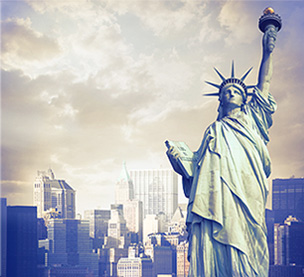
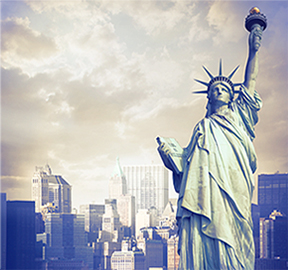
che

diff --git a/module-7/Home/css/styles.css b/module-7/Home/css/styles.css
@@ -148,13 +148,11 @@ body {
 }
 .slider-image {
     width: 902px;
-    height:580px;
     position: absolute;
 }
 
 .slider-image-1 {
 	width: 902px;
-	height:580px;
     position: static;
 }
 
@@ -298,8 +296,7 @@ h2 {
 }
 
 .photo {   
-    width: 288px;
-	height: 270px;	
+    width: 288px;	
 }
 
 
